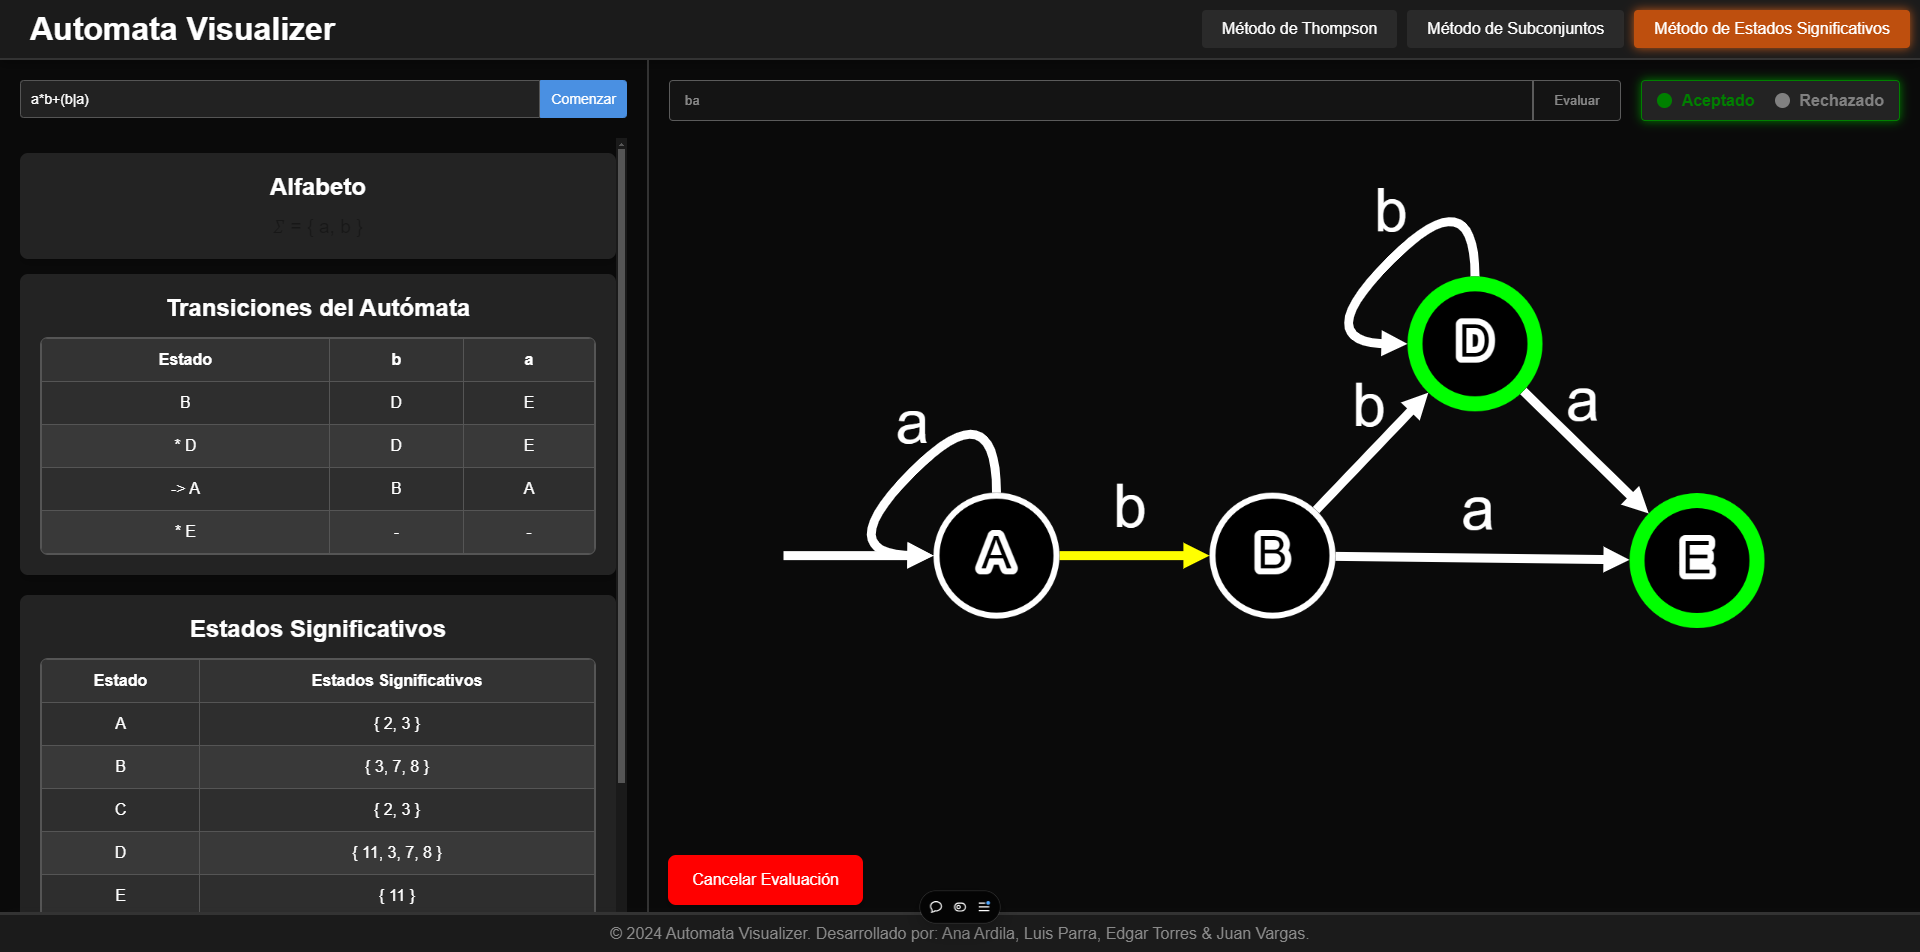
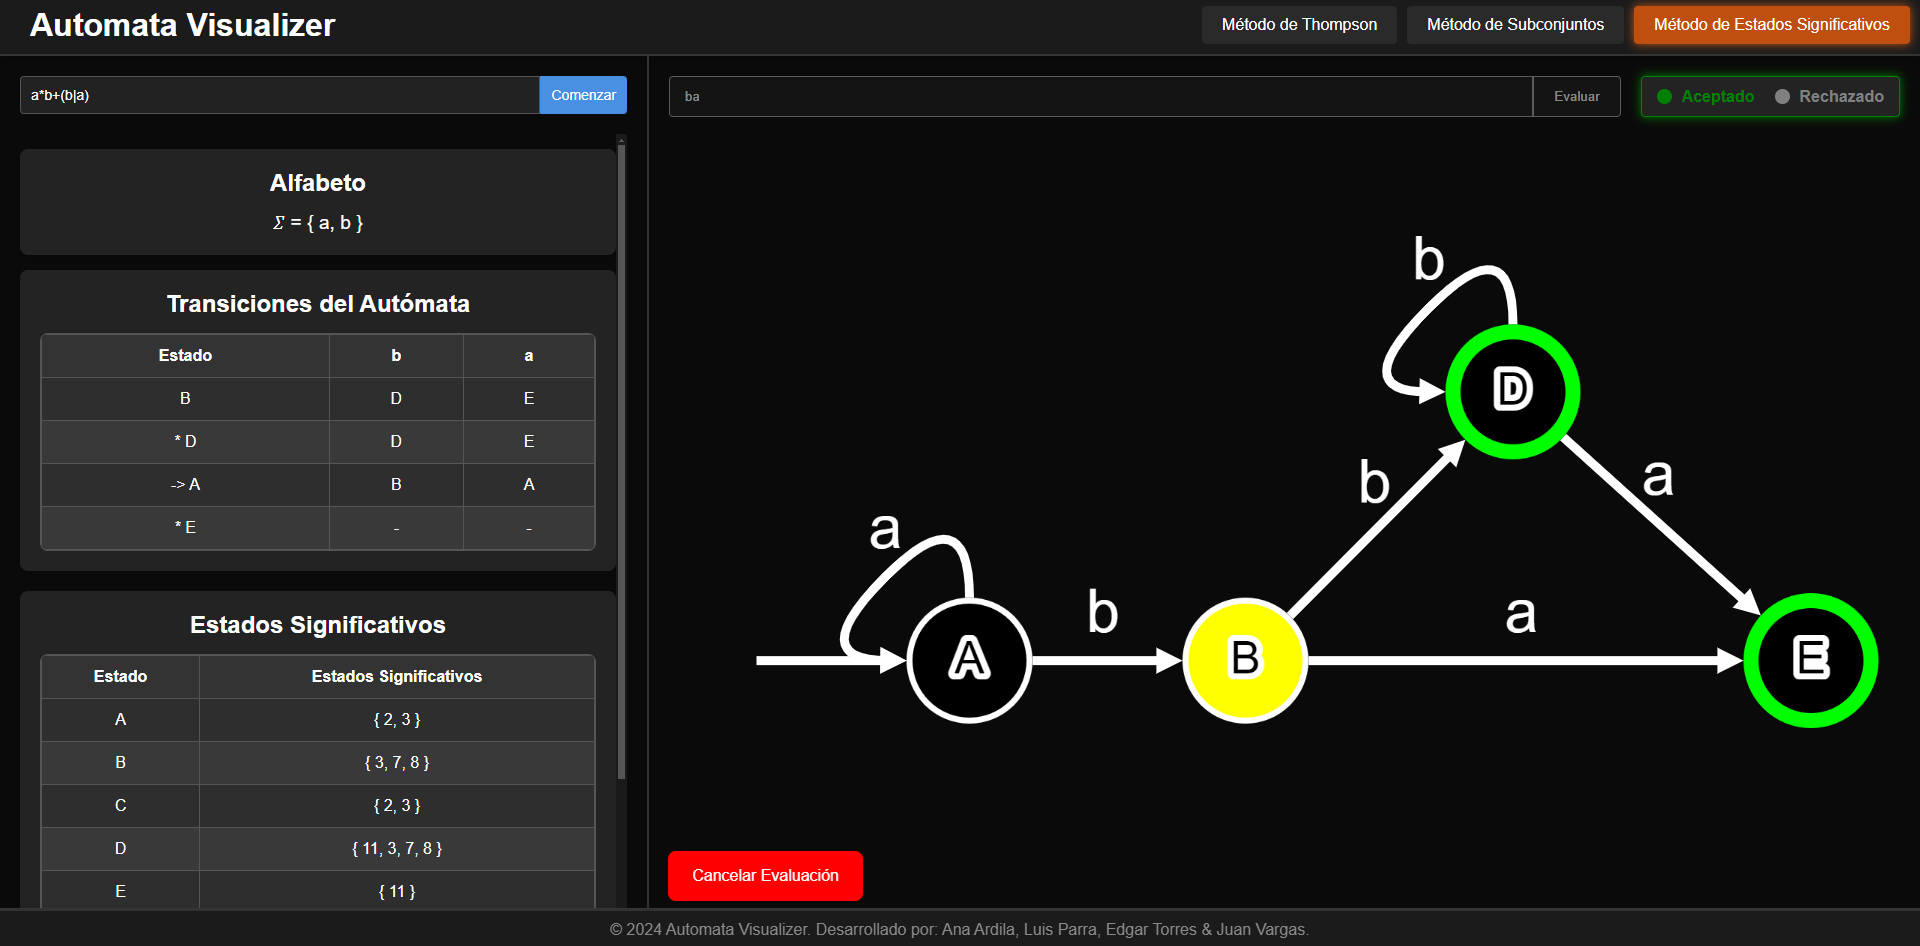
css correction and assets modification

diff --git a/src/app/components/component.module.css b/src/app/components/component.module.css
@@ -166,6 +166,7 @@
     flex-grow: 1; 
     text-align: center; 
     font-size: larger;
+    color: #fff;
 }
 
 .title {
@@ -228,6 +229,7 @@
   border-radius: 5px;
   padding: 10px; 
   margin: 5px 0; 
+  color: #fff;
 }
 
 
